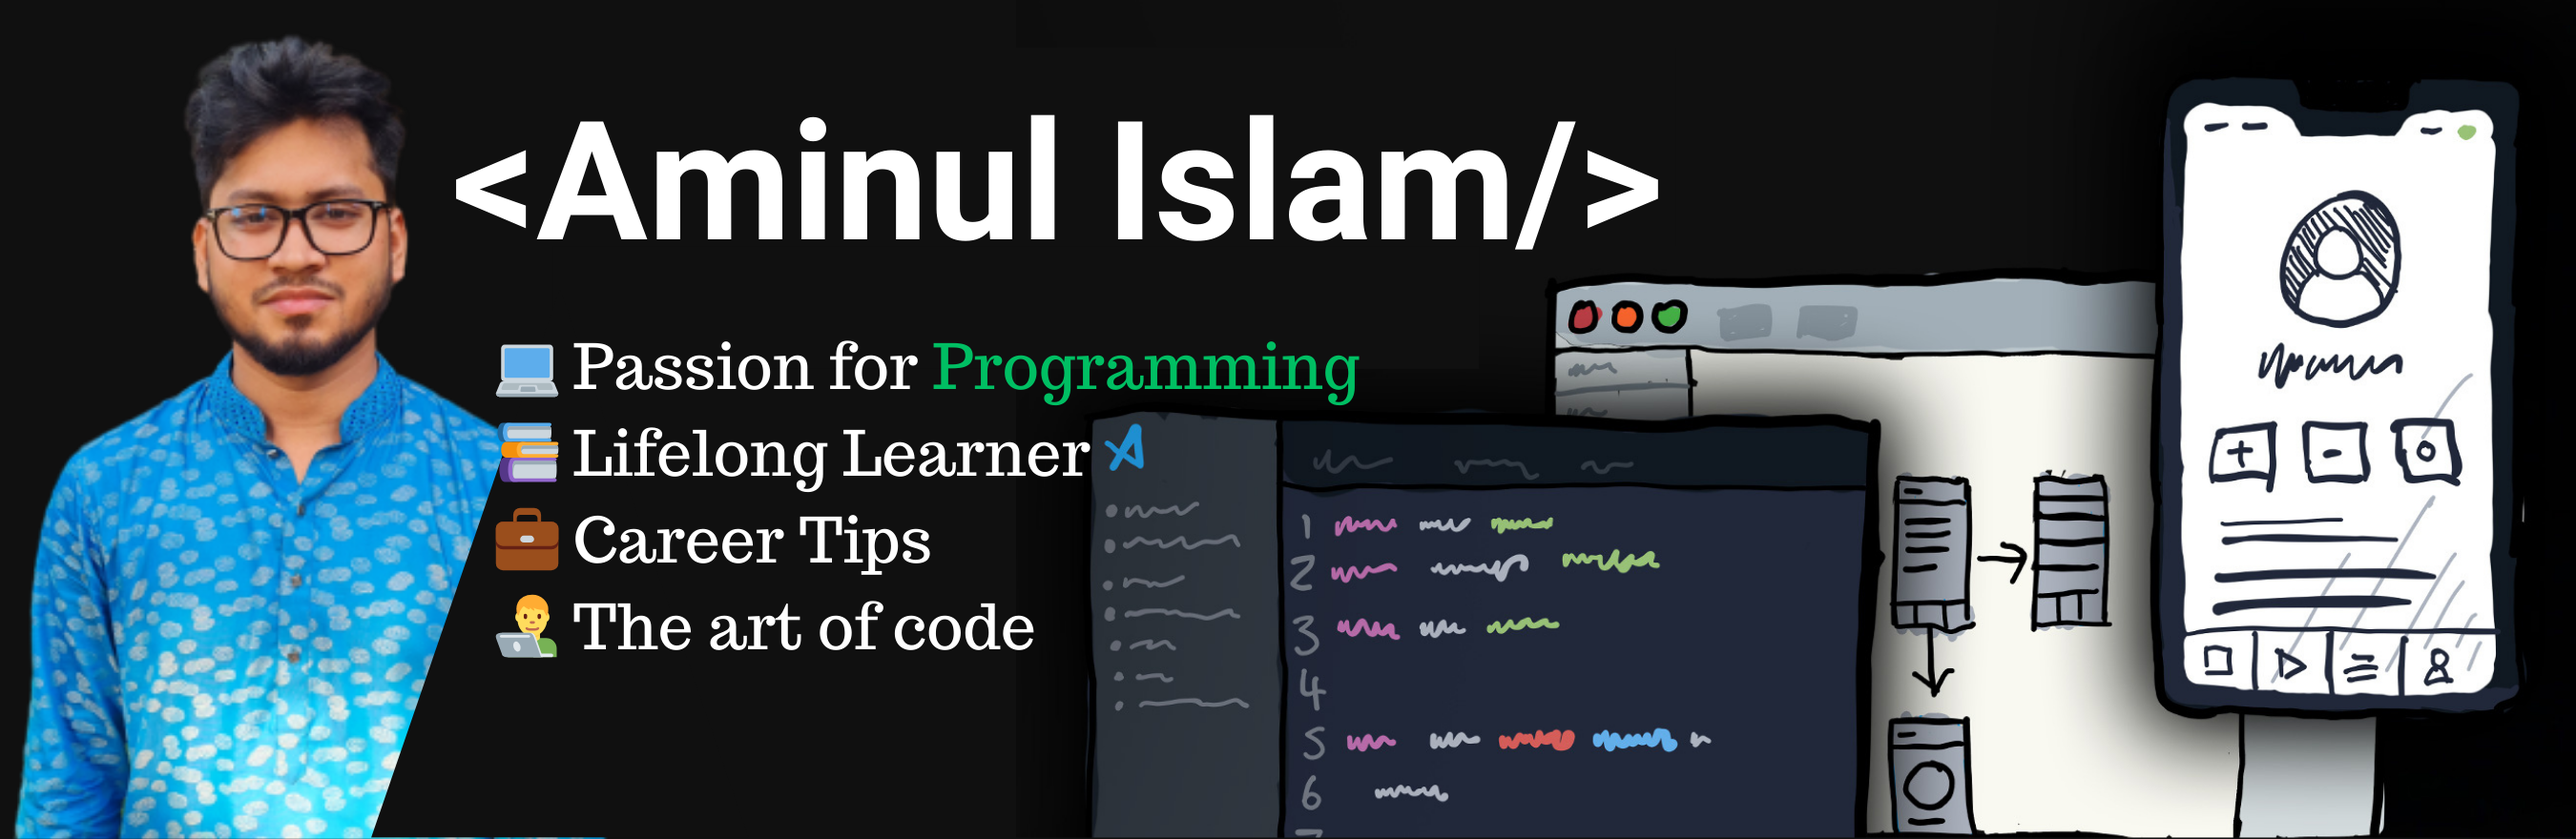
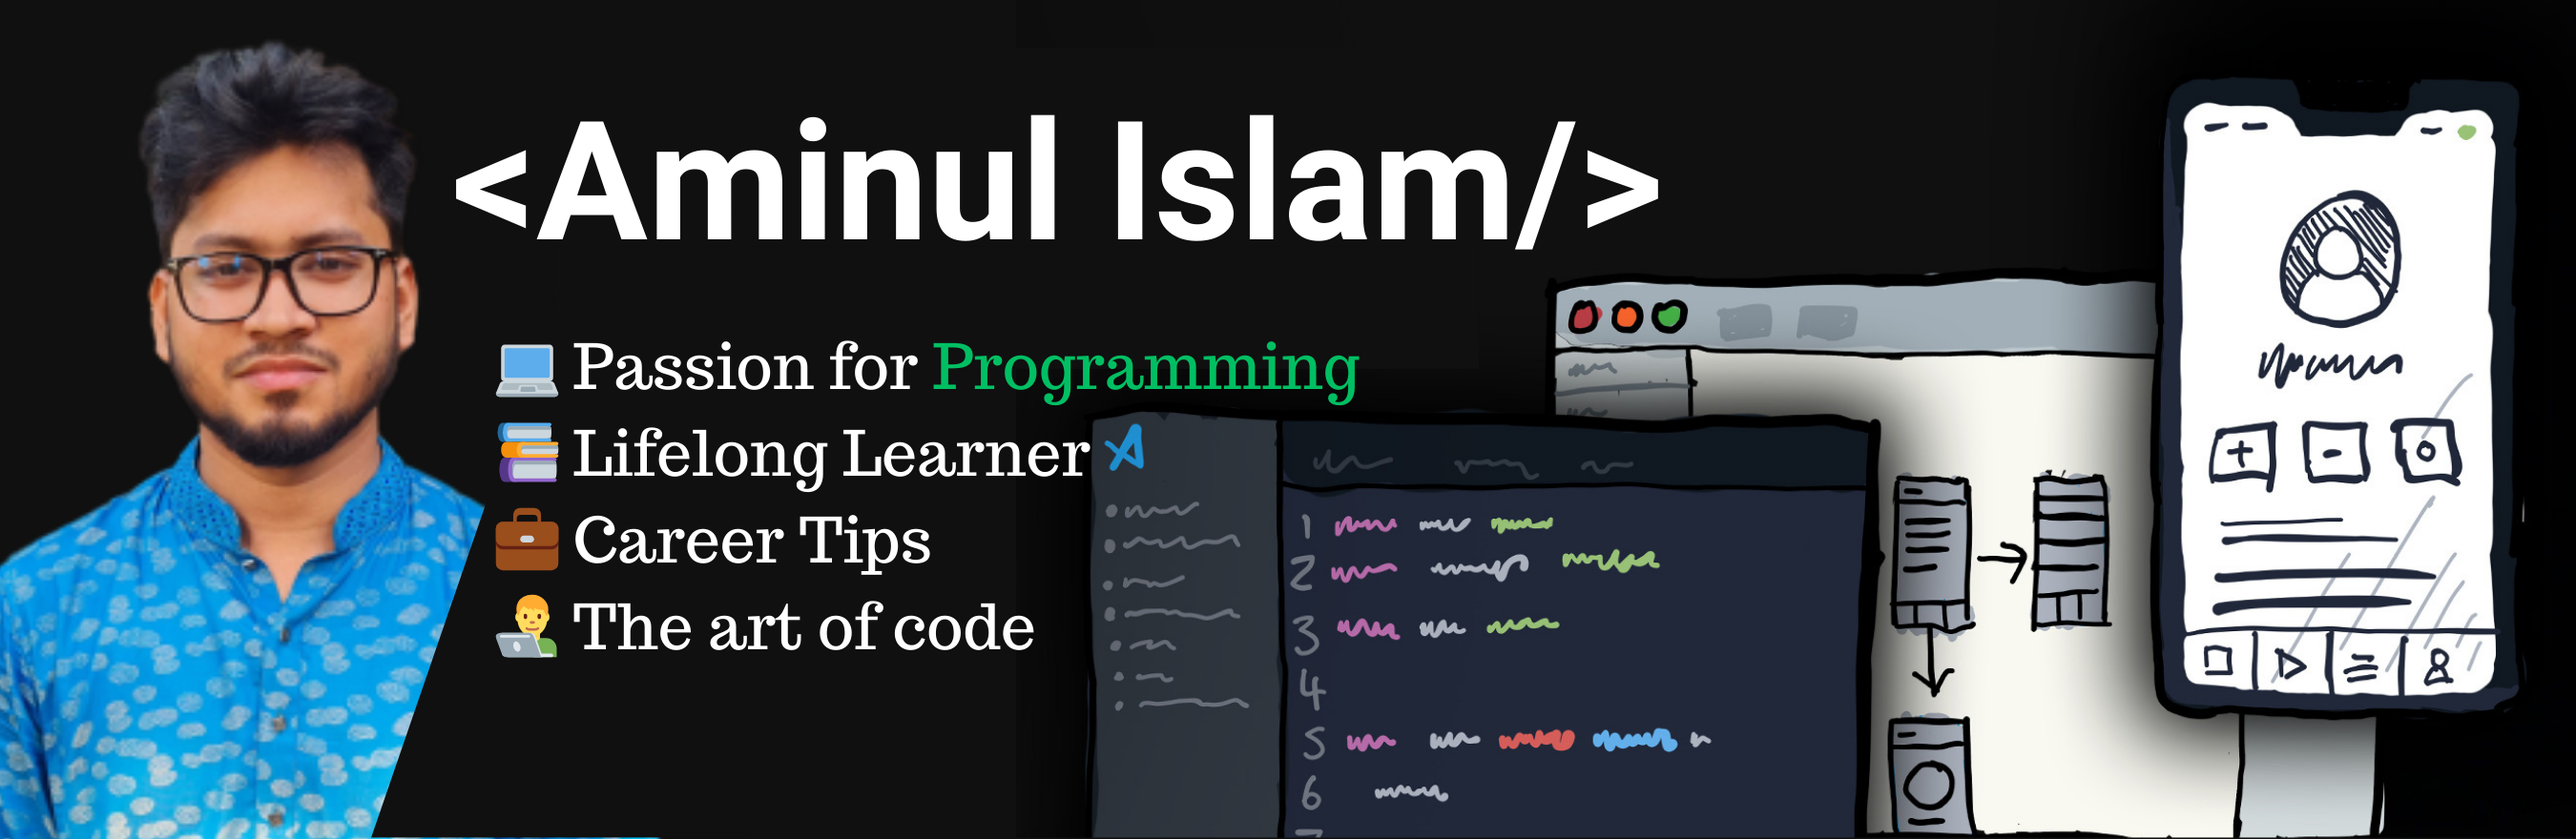
fix

Changed region(s): [[0.0, 0.0307, 0.2489, 1.0]]

diff --git a/README.md b/README.md
@@ -1,4 +1,4 @@
-![I'm Aminul Islam,](https://github.com/theaminuldev/theaminuldev/blob/main/Github-Profile-Photo.png)
+![I'm Aminul Islam,](https://github.com/theaminuldev/theaminuldev/blob/main/github-profile-photo.png)
 ## Hey, there my gorgeous friend 👋,
 
 ### 🙋♂ About Me:
